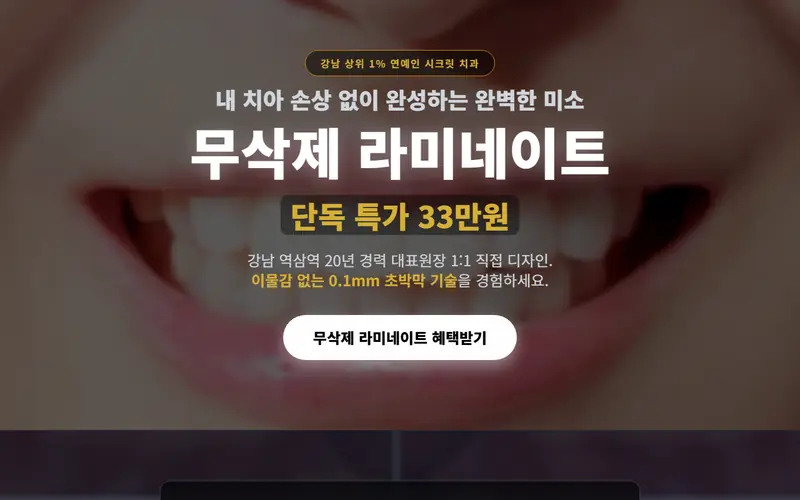
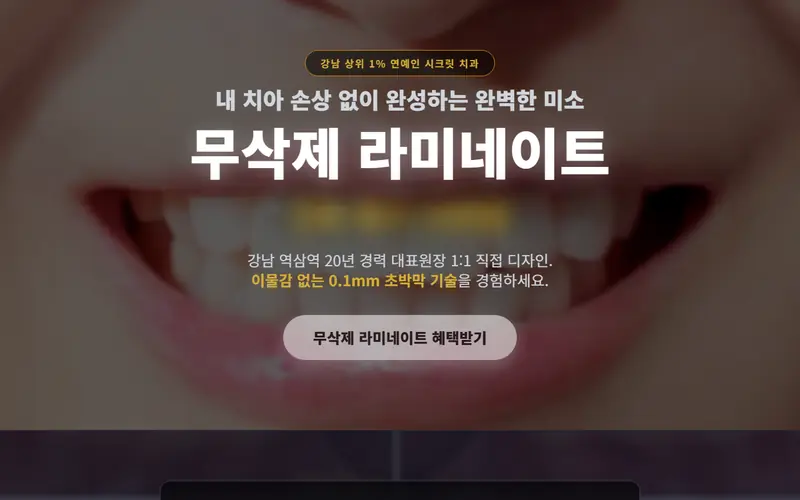
fix(home): 포트폴리오 썸네일 가격 문구 흐림 처리, 검색·공유 문구 에이전시 톤, html lang=ko
Claude-Session: https://claude.ai/code/session_01SwRpaycdLKrBdd62Fzcktj

Changed region(s): [[0.3438, 0.63, 0.6562, 0.75], [0.3438, 0.39, 0.6562, 0.48]]

diff --git a/src/routes/__root.tsx b/src/routes/__root.tsx
@@ -69,24 +69,37 @@ function ErrorComponent({ error, reset }: { error: Error; reset: () => void }) {
   );
 }
 
+// 사이트 기본 검색·공유 문구. 검색 결과용(title·description)과 공유 카드용(og·twitter)을 나눈다.
+// title 은 60자 안팎, description 은 120~155자 안팎(검색 결과에서 잘리지 않는 길이).
+const SITE_TITLE =
+  "AI 기반 웹·앱 플랫폼 구축 · CRM·메타 광고 · 전광판 DOOH 디지털 사이니지 | 에이아이솔루션";
+const SITE_DESCRIPTION =
+  "AI 기반 데이터 분석과 통합 미디어 솔루션으로 비즈니스의 스케일을 확장합니다. 웹·앱 개발과 플랫폼 구축, CRM·메타 광고 통합 마케팅, 건물 전광판(DOOH) 디지털 사이니지 운영, AI 자동화까지 한 팀이 설계하고 운영합니다.";
+const SHARE_TITLE = "AI 데이터 분석 × 통합 미디어 솔루션 — 비즈니스의 스케일을 확장합니다";
+const SHARE_DESCRIPTION =
+  "웹·앱 플랫폼 구축, CRM·메타 광고 통합 마케팅, 디지털 사이니지(DOOH) 운영까지. 온라인과 오프라인의 고객 접점을 하나의 데이터 흐름으로 묶어 비즈니스의 스케일을 확장합니다.";
+
 export const Route = createRootRouteWithContext<{ queryClient: QueryClient }>()({
   head: () => ({
     meta: [
       { charSet: "utf-8" },
       { name: "viewport", content: "width=device-width, initial-scale=1" },
       // 🚨 제목·설명은 **검색어**가 들어가야 한다. 예전엔 "AISOLUTION" 뿐이라
-      //    브랜드명을 아는 사람만 찾을 수 있었다 — 사려는 사람은 "랜딩페이지 제작",
-      //    "예약 시스템 개발" 을 친다.
-      { title: "랜딩페이지 제작 · 예약 플랫폼 개발 | 에이아이솔루션" },
-      { name: "description", content: "병원·법무법인·분양·통신 등 업종 12곳의 상담 랜딩을 만들어 왔고, 예약·매칭·일정 플랫폼까지 직접 개발합니다. 필요한 범위를 알려주시면 30분 상담 후 확정 견적을 드립니다." },
+      //    브랜드명을 아는 사람만 찾을 수 있었다. 사려는 사람은 "웹·앱 개발",
+      //    "메타 광고", "디지털 사이니지" 를 친다.
+      // 🚨 홈 히어로("AI 기반 데이터 분석 × 통합 미디어 솔루션", 세 축)와 같은 말을 쓴다.
+      //    직원 수·고객 수·매출 같은 숫자, 금액·기간은 넣지 않는다(검증 못 하는 약속이 된다).
+      //    업종 페이지 제목은 src/lib/solutions.ts 의 metaTitle 이 따로 맡는다.
+      { title: SITE_TITLE },
+      { name: "description", content: SITE_DESCRIPTION },
       { name: "author", content: "에이아이솔루션" },
       { name: "robots", content: "index, follow" },
 
       // 카톡·카페·문자로 링크를 붙였을 때 뜨는 카드.
       // 🚨 og:image 는 **우리 도메인**이어야 한다. 예전엔 러버블 미리보기 서버를
       //    가리켜, 우리가 통제하지 못하는 주소가 대표 이미지였다.
-      { property: "og:title", content: "상담이 들어오는 페이지, 운영까지 되는 시스템" },
-      { property: "og:description", content: "병원·법무법인·분양·통신 등 업종 12곳의 상담 랜딩을 만들어 왔고, 예약·매칭·일정 플랫폼까지 직접 개발합니다. 필요한 범위를 알려주시면 30분 상담 후 확정 견적을 드립니다." },
+      { property: "og:title", content: SHARE_TITLE },
+      { property: "og:description", content: SHARE_DESCRIPTION },
       { property: "og:type", content: "website" },
       { property: "og:site_name", content: "에이아이솔루션" },
       { property: "og:locale", content: "ko_KR" },
@@ -97,8 +110,8 @@ export const Route = createRootRouteWithContext<{ queryClient: QueryClient }>()(
 
       // summary 는 작은 썸네일이다. 큰 카드가 클릭률이 훨씬 낫다.
       { name: "twitter:card", content: "summary_large_image" },
-      { name: "twitter:title", content: "상담이 들어오는 페이지, 운영까지 되는 시스템" },
-      { name: "twitter:description", content: "병원·법무법인·분양·통신 등 업종 12곳의 상담 랜딩을 만들어 왔고, 예약·매칭·일정 플랫폼까지 직접 개발합니다. 필요한 범위를 알려주시면 30분 상담 후 확정 견적을 드립니다." },
+      { name: "twitter:title", content: SHARE_TITLE },
+      { name: "twitter:description", content: SHARE_DESCRIPTION },
       { name: "twitter:image", content: "https://ai-solution.co.kr/og.png" },
     ],
     links: [
@@ -127,7 +140,7 @@ export const Route = createRootRouteWithContext<{ queryClient: QueryClient }>()(
 
 function RootShell({ children }: { children: React.ReactNode }) {
   return (
-    <html lang="en">
+    <html lang="ko">
       <head>
         <HeadContent />
       </head>

diff --git a/scripts/capture-thumbs.py b/scripts/capture-thumbs.py
@@ -6,6 +6,11 @@
 # 실행: python scripts/capture-thumbs.py              # 전체
 #       python scripts/capture-thumbs.py ilzik-com    # 특정 key 만 다시 캡처
 # 환경변수 WAIT(ms)로 캡처 전 대기 시간을 늘릴 수 있다(기본 3000).
+#
+# 🚨 가격은 썸네일에 보이면 안 된다(납품 사이트 자체의 "33만원", "6억대" 같은 문구).
+#    캡처 직전에 BLUR_PRICES 스크립트로 가격 표현이 든 텍스트 요소를 강하게 흐린다.
+#    배너 이미지 안에 그려진 가격은 DOM 으로 못 잡으니, 캡처 후 반드시 눈으로 보고
+#    남아 있으면 그 영역을 PIL 로 따로 흐리거나 캡처 위치를 바꿔야 한다.
 import os
 import re
 import sys
@@ -18,6 +23,37 @@ from playwright.sync_api import sync_playwright
 ROOT = os.path.dirname(os.path.dirname(os.path.abspath(__file__)))
 OUT = os.path.join(ROOT, "public", "thumbs")
 WAIT = int(os.environ.get("WAIT", "3000"))
+
+
+# 숫자와 붙은 화폐 단위·할인 표현("월 3만원" 도 여기 걸린다). 숫자 없는 "할인가"·"정가" 도 잡는다.
+# "10월 7일" 같은 날짜는 걸리지 않게 "월+숫자" 단독 패턴은 두지 않았다.
+BLUR_PRICES = r"""
+() => {
+  const re = /(\d[\d,.]*\s*(만\s*원|천\s*원|원(?![가-힣])|원[대~부이짜까으에의을]|억대?|만원대?|천만|백만)|₩\s*\d|\d+\s*%\s*(할인|OFF|off|DC|dc|세일)|할인가|정가)/;
+  const hits = new Set();
+  const walker = document.createTreeWalker(document.body, NodeFilter.SHOW_TEXT);
+  let n;
+  while ((n = walker.nextNode())) {
+    if (!n.nodeValue || !re.test(n.nodeValue)) continue;
+    const el = n.parentElement;
+    if (el) hits.add(el);
+  }
+  // 가격 숫자가 여러 태그로 쪼개진 경우(예: <b>33</b>만원)는 텍스트 노드 하나로는 안 잡힌다.
+  // 그때는 가격 전체를 담은 "가장 작은" 요소만 흐린다. 자식 중 하나가 이미 가격을 다 담고
+  // 있으면 부모는 건너뛴다 — 안 그러면 제목까지 통째로 흐려진다.
+  const matches = (el) => re.test((el.innerText || "").replace(/\s+/g, " "));
+  document.querySelectorAll("body *").forEach((el) => {
+    if (el.children.length === 0 || !matches(el)) return;
+    if ([...el.children].some(matches)) return;
+    if ((el.innerText || "").length < 120) hits.add(el);
+  });
+  document.querySelectorAll("input, textarea").forEach((el) => {
+    if (re.test(el.value || "") || re.test(el.placeholder || "")) hits.add(el);
+  });
+  hits.forEach((el) => { el.style.setProperty("filter", "blur(18px)", "important"); });
+  return hits.size;
+}
+"""
 
 
 def thumb_key(url: str) -> str:
@@ -59,6 +95,9 @@ def main() -> None:
             page.wait_for_timeout(WAIT)
             page.keyboard.press("Escape")  # 팝업이 있으면 닫기 시도
             page.wait_for_timeout(300)
+            blurred = page.evaluate(BLUR_PRICES)
+            page.wait_for_timeout(300)
+            print(key, "가격 요소 흐림:", blurred)
             png = os.path.join(tmp, key + ".png")
             page.screenshot(path=png)
             dest = os.path.join(OUT, key + ".webp")
